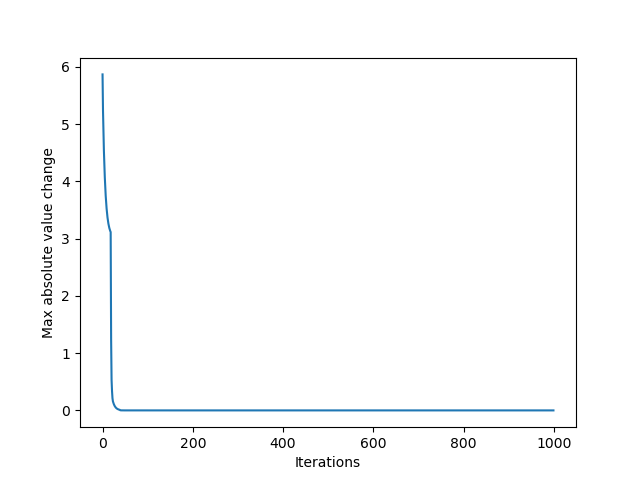
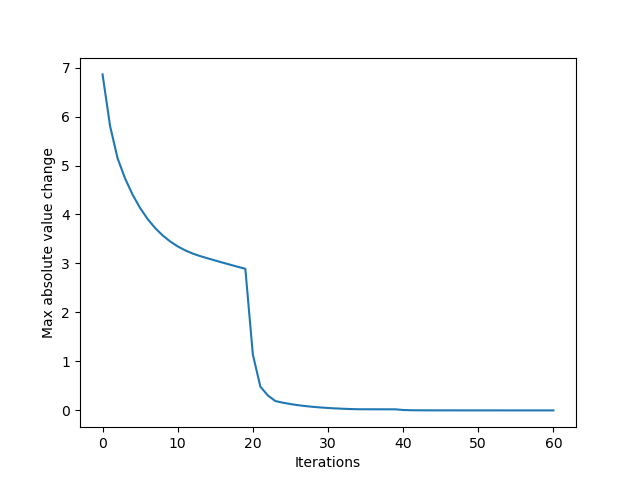
subclass VI

diff --git a/iterators.py b/iterators.py
@@ -82,6 +82,7 @@ class PolicyIterationWithers(mdptoolbox.mdp.PolicyIteration):
         # Run the policy iteration algorithm.
         # If verbose the print a header
         self._arr = []
+        self._time_arr = []
         if self.verbose:
             print('  Iteration\t\tNumber of different actions')
         # Set up the while stopping condition and the current time
@@ -125,3 +126,53 @@ class PolicyIterationWithers(mdptoolbox.mdp.PolicyIteration):
         # store value and policy as tuples
         self.V = tuple(self.V.tolist())
         self.policy = tuple(self.policy.tolist())
+
+
+def getSpan(W):
+    """Return the span of W
+
+    sp(W) = max W(s) - min W(s)
+
+    """
+    return W.max() - W.min()
+
+
+class ValueIterationWithers(mdptoolbox.mdp.ValueIteration):
+    def run(self):
+        # Run the value iteration algorithm.
+        self._arr = []
+        if self.verbose:
+            print('  Iteration\t\tV-variation')
+
+        self.time = _time.time()
+        while True:
+            self.iter += 1
+
+            Vprev = self.V.copy()
+
+            # Bellman Operator: compute policy and value functions
+            self.policy, self.V = self._bellmanOperator()
+
+            # The values, based on Q. For the function "max()": the option
+            # "axis" means the axis along which to operate. In this case it
+            # finds the maximum of the the rows. (Operates along the columns?)
+            variation = getSpan(self.V - Vprev)
+            self._arr.append(variation)
+
+            if self.verbose:
+                print(("    %s\t\t  %s" % (self.iter, variation)))
+
+            if variation < self.thresh:
+                if self.verbose:
+                    print(_MSG_STOP_EPSILON_OPTIMAL_POLICY)
+                break
+            elif self.iter == self.max_iter:
+                if self.verbose:
+                    print(_MSG_STOP_MAX_ITER)
+                break
+
+        # store value and policy as tuples
+        self.V = tuple(self.V.tolist())
+        self.policy = tuple(self.policy.tolist())
+
+        self.time = _time.time() - self.time

diff --git a/example_usage.py b/example_usage.py
@@ -57,9 +57,11 @@ if __name__ == '__main__':
 
     pymdptoolbox_installed = True
     try:
-        from iterators import iterate_value, iterate_policy, PolicyIterationWithers
+        from iterators import PolicyIterationWithers, ValueIterationWithers
         print("Value Iteration")
-        vi, arr = iterate_value(env.transition, env.rewards, discount=1.0)
+        vi = ValueIterationWithers(env.transition, env.rewards, discount=0.99, max_iter=1000)
+        vi.run()
+        arr = vi._arr
         print("Policy Iteration")
         pi = PolicyIterationWithers(env.transition, env.rewards, discount=0.99, max_iter=1000)
         pi.run()
